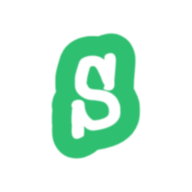
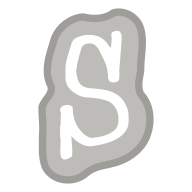
PWA updates

diff --git a/src/app/app.scss b/src/app/app.scss
@@ -17,15 +17,21 @@ iframe {
 	margin-bottom: $gap;
 }
 
-#root > ul {
-	grid-area: nav;
+#root + ul {
 	list-style-type: none;
 	margin: 0;
 	padding: 0;
-	overflow: hidden;
-	font-size: 15px;
+	z-index: 10000;
+	font-size: calc(env(titlebar-area-height, 45px) / 3);
 	background-color: $primary;
 	margin-right: $gap * -1;
+	-webkit-app-region: drag;
+
+	position: fixed;
+	left: env(titlebar-area-x, 0);
+	top: env(titlebar-area-y, 0);
+	height: env(titlebar-area-height, 45px);
+	width: env(titlebar-area-width, 100%);
 
 	li.dropdown {
 		display: inline-block;
@@ -42,13 +48,13 @@ iframe {
 			display: none;
 			position: absolute;
 			background-color: $primary;
-			min-width: 160px;
+			min-width: 120px;
 			box-shadow: 0px 8px 16px 0px rgba(0, 0, 0, 0.2);
 			z-index: 1;
 		}
 
 		> .dropdown-content > a {
-			padding: 12px 16px;
+			padding: 0 1em;
 			text-decoration: none;
 			display: block;
 			text-align: left;
@@ -68,57 +74,65 @@ iframe {
 
 		.dropdown-content {
 			display: block;
-			z-index: 20000;
 		}
 	}
-}
 
-#root > ul > li {
-	float: left;
+	> li {
+		float: left;
+		height: 100%;
+		line-height: env(titlebar-area-height, 45px);
+		-webkit-app-region: none;
 
-	> a {
-		display: inline-block;
-		color: white;
-		text-align: center;
-		padding: 14px 16px;
-		text-decoration: none;
+		> a {
+			display: inline-block;
+			color: white;
+			text-align: center;
+			text-decoration: none;
+			padding: 0 1em;
+			height: 100%;
 
-		&:not(:empty):hover {
-			background-color: rgba(0, 0, 0, 0.1);
-		}
+			&:not(:empty):hover {
+				background-color: rgba(0, 0, 0, 0.1);
+			}
 
-		&:empty {
-			background-image: url("./scrap.svg");
-			background-size: 80%;
-			background-repeat: no-repeat;
-			background-position: center;
+			&:empty {
+				background-image: url("./scrap.svg");
+				background-size: 80%;
+				background-repeat: no-repeat;
+				background-position: center;
 
-			&::after {
-				content: "SCRAP";
-				opacity: 0;
+				&::after {
+					content: "SCRAP";
+					opacity: 0;
+				}
 			}
 		}
-	}
 
-	&:last-child {
-		margin-left: 2vw;
-		padding: 6px;
-	}
+		&:last-child {
+			@media (min-width: 800px) {
+				position: absolute;
+				left: 50vw;
+				top: 50%;
+				transform: translate(-50%, -50%);
+			}
+		}
 
-	> input {
-		background: transparent;
-		color: white;
-		border-color: white;
-		padding: 7px 9px;
-		border-radius: 3px;
-		border: 1px solid;
-		outline-color: #FFFA;
-	}
+		> input {
+			background: transparent;
+			border: 1px solid white;
+			color: white;
+			border-radius: 3px;
+			outline-color: #fffa;
+			padding: 4px;
+			text-align: center;
+			font-size: 11px;
+		}
 
-	> input:focus,
-	> input:active,
-	> input:hover {
-		background: rgba($color: $background, $alpha: 0.3);
+		> input:focus,
+		> input:active,
+		> input:hover {
+			background: rgba($color: $background, $alpha: 0.3);
+		}
 	}
 }
 
@@ -193,14 +207,14 @@ body {
 	width: 100vw;
 	display: grid;
 	grid-template-areas:
-		"nav nav nav"
 		"tabs buttons buttons"
 		"tab-content output output"
 		"tab-content sprites stage";
 	grid-template-columns: 1fr 380px 100px;
-	grid-template-rows: auto 40px auto 1fr;
+	grid-template-rows: 40px auto 1fr;
 	background: $background;
 	padding-right: $gap;
+	padding-top: env(titlebar-area-height, 45px);
 }
 
 .fab {

diff --git a/index.html b/index.html
@@ -18,36 +18,6 @@
 	<div id="root">
 		<iframe width="480" height="360" name="output" src="src/components/output.html" title="Output"></iframe>
 		<input type="file" style="display: none;" title="Hidden file input">
-		<!-- Nav -->
-		<ul>
-			<li><a href="/"></a></li>
-
-			<li class="dropdown">
-				<a href="javascript:this.app?.dropdown(0)">File</a>
-				<div class="dropdown-content">
-					<a href="javascript:this.app?.dropdown(0);this.app?.pick('.scrap');">Open</a>
-					<a href="javascript:this.app?.dropdown(0);this.app?.saveAs();">Save</a>
-					<a href="javascript:this.app?.dropdown(0);this.app?.export();">Export HTML</a>
-					<a href="javascript:this.app?.dropdown(0);this.app?.pick('.sb3');">Import SB3</a>
-				</div>
-			</li>
-			<li class="dropdown">
-				<a href="javascript:this.app?.dropdown(1)">Mode</a>
-				<div class="dropdown-content">
-					<a href="javascript:this.app?.mode('paced')">
-						<span class="checkmark" data-for="paced">&check;&nbsp;</span>
-						Paced
-					</a>
-					<a href="javascript:this.app?.mode('turbo')">
-						<span class="checkmark" data-for="turbo">&check;&nbsp;</span>
-						Turbo
-					</a>
-				</div>
-			</li>
-
-			<li><a href="javascript:void(document.getElementById('about').showModal())">About</a></li>
-			<li><input type="text" placeholder="Project name" value="Project"></li>
-		</ul>
 
 		<!-- Tabs -->
 		<div id="tabs"></div>
@@ -68,6 +38,36 @@
 			<span class="name">Stage</span>
 		</div>
 	</div>
+	<!-- Nav -->
+	<ul role="navigation">
+		<li><a href="/" title="Scrap"></a></li>
+		<li class="dropdown">
+			<a href="javascript:this.app?.dropdown(0)">File</a>
+			<div class="dropdown-content">
+				<a href="javascript:this.app?.dropdown(0);this.app?.pick('.scrap');">Open</a>
+				<a href="javascript:this.app?.dropdown(0);this.app?.saveAs();">Save</a>
+				<a href="javascript:this.app?.dropdown(0);this.app?.export();">Export HTML</a>
+				<a href="javascript:this.app?.dropdown(0);this.app?.pick('.sb3');">Import SB3</a>
+			</div>
+		</li>
+		<li class="dropdown">
+			<a href="javascript:this.app?.dropdown(1)">Mode</a>
+			<div class="dropdown-content">
+				<a href="javascript:this.app?.mode('paced')">
+					<span class="checkmark" data-for="paced">&check;&nbsp;</span>
+					Paced
+				</a>
+				<a href="javascript:this.app?.mode('turbo')">
+					<span class="checkmark" data-for="turbo">&check;&nbsp;</span>
+					Turbo
+				</a>
+			</div>
+		</li>
+
+		<li><a href="javascript:void(document.getElementById('about').showModal())">About</a></li>
+		<li><input type="text" placeholder="Project name" value="Project"></li>
+	</ul>
+	<!-- About -->
 	<dialog class="parley" id="about" style="width: 500px;">
 		<h2>
 			About Scrap

diff --git a/src/app/index.ts b/src/app/index.ts
@@ -134,6 +134,7 @@ export class App {
 			}
 		});
 
+		this.saveAs = App.save.bind(this, version);
 		const scrappy = new Sprite("Scrappy");
 		scrappy.variables.push(["My variable", "number"]);
 		this.addSprite(scrappy);
@@ -254,7 +255,6 @@ export class App {
 			}
 		}
 
-		this.current = this.entities[0];
 		this.selectStage();
 		this.hideLoader();
 	}
@@ -336,14 +336,17 @@ ${scripts.trimEnd()}
 		saveAs(await zip.generateAsync({type: "blob"}), "project.zip");
 	}
 
-	async saveAs() {
+	private static async save(this: App, version: string) {
 		const zip = new JSZip();
 		const entities = this.entities.map(e => e.save(zip));
-		zip.file("project.json", JSON.stringify({
-			entities,
-			version,
-			name: this.inputs[1].value
-		}));
+		zip.file(
+			"project.json", 
+			JSON.stringify({
+				entities,
+				version,
+				name: this.inputs[1].value
+			})
+		);
 
 		saveAs(await zip.generateAsync({type: "blob"}), this.inputs[1].value + ".scrap");
 	}
@@ -396,4 +399,6 @@ ${scripts.trimEnd()}
 		this.inputs[0].accept = accept;
 		this.inputs[0].showPicker();
 	}
+
+	saveAs?: () => void;
 }

diff --git a/src/blockly/blocks/sound.ts b/src/blockly/blocks/sound.ts
@@ -1,4 +1,5 @@
 import * as Blockly from "blockly";
+import path from "path";
 
 export const MIXIN = {
     init(this: Blockly.Block) {
@@ -8,14 +9,15 @@ export const MIXIN = {
         this.appendDummyInput().appendField<string>(
             new Blockly.FieldDropdown(
                 () => {
-                    if (!app.current.sounds) {
+                    if (!app.current.sounds.length) {
                         return [["", ""]];
                     }
                     return app.current.sounds.map<[string, string]>(e => {
-                        if (e.name.length > 12) {
-                            return [e.name.slice(0, 12) + "...", e.name];
+                        const {name} = path.parse(e.name);
+                        if (name.length > 12) {
+                            return [name.slice(0, 12) + "...", name];
                         }
-                        return [e.name, e.name];
+                        return [name, name];
                     });
                 }
             ),

diff --git a/src/main.ts b/src/main.ts
@@ -20,6 +20,9 @@ window.MonacoEnvironment = {
 	),
 };
 
+window.app = new App();
+window.app.start(version);
+
 // Enable opening files via PWA
 window.launchQueue?.setConsumer(async launchParams => {
 	function isFile(file: FileSystemHandle): file is FileSystemFileHandle {
@@ -30,9 +33,9 @@ window.launchQueue?.setConsumer(async launchParams => {
 		const fileHandle = launchParams.files[0];
 
 		if (isFile(fileHandle)) {
-			if (fileHandle.name.endsWith(".sb3")) {
+			if (fileHandle.name.endsWith(".scrap")) {
 				app.open(version, await fileHandle.getFile());
-			} else if (fileHandle.name.endsWith(".scrap")) {
+			} else if (fileHandle.name.endsWith(".sb3")) {
 				app.import(await fileHandle.getFile());
 			} else {
 				window.alert("Unsupported file type");
@@ -40,6 +43,3 @@ window.launchQueue?.setConsumer(async launchParams => {
 		}
 	}
 });
-
-window.app = new App();
-window.app.start(version);

diff --git a/CHANGELOG.md b/CHANGELOG.md
@@ -7,6 +7,20 @@ and this project adheres to [Semantic Versioning](https://semver.org/spec/v2.0.0
 
 ## [Unreleased]
 
+## [4.3.9] - 2024-4-24
+
+### Added
+
+- PWA title bar
+
+### Fixed
+
+- PWA file handlers
+
+### Changed
+
+- PWA app icons
+
 ## [4.3.8] - 2024-4-23
 
 ### Changed
@@ -602,7 +616,8 @@ and this project adheres to [Semantic Versioning](https://semver.org/spec/v2.0.0
 
 - Reserved words are no longer in Generator's constructor.
 
-[unreleased]: https://github.com/tomas-wrobel/scrap/compare/v4.3.8...HEAD
+[unreleased]: https://github.com/tomas-wrobel/scrap/compare/v4.3.9...HEAD
+[4.3.9]: https://github.com/tomas-wrobel/scrap/releases/tag/v4.3.9
 [4.3.8]: https://github.com/tomas-wrobel/scrap/releases/tag/v4.3.8
 [4.3.7]: https://github.com/tomas-wrobel/scrap/releases/tag/v4.3.7
 [4.3.6]: https://github.com/tomas-wrobel/scrap/releases/tag/v4.3.6
